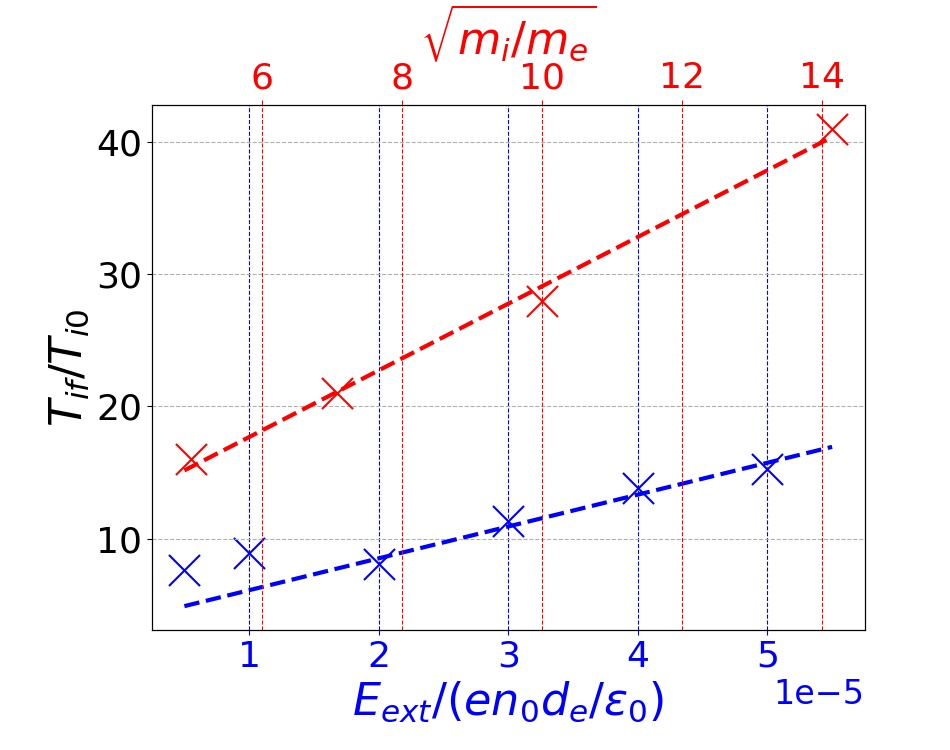
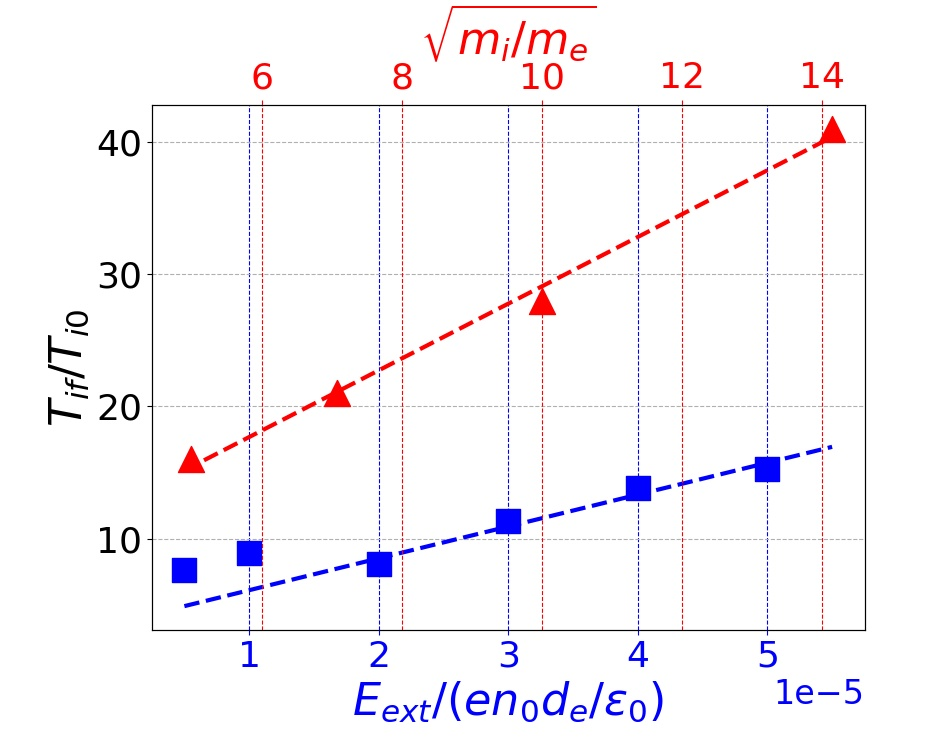
update

diff --git a/Diagnostics/local/dependence.py b/Diagnostics/local/dependence.py
@@ -519,8 +519,8 @@ def ionheating():
     popt2, pcov2 = curve_fit(linear_model, E_ext_, Ti_E_)
     constructed_2 = linear_model(Ee,*popt2)
 
-    ax2.scatter(mass_ratio, Ti_mass, marker='x',s = 500, color='red')
-    ax.scatter(E_ext, Ti_E, marker='x',s = 500, color='blue')
+    ax2.scatter(mass_ratio, Ti_mass, marker='^',s = 350, color='red')
+    ax.scatter(E_ext, Ti_E, marker='s',s = 300, color='blue')
     ax2.plot(mass, constructed_1, color='red', linestyle='--',linewidth=3)
     ax.plot(Ee, constructed_2, color='blue', linestyle='--',linewidth=3)
 
@@ -539,7 +539,7 @@ def ionheating():
     ax.grid(axis='y',linestyle='--')
     ax2.grid(color='red',linestyle='--')
 
-    plt.savefig('./Figures/figures_temp/dependence/Ti_dependence.jpeg')
+    plt.savefig('./Figures/paper_figures/dependence/Ti_dependence.jpeg')
     #plt.show()
 
 
@@ -703,13 +703,13 @@ if __name__ == '__main__':
 
     
     # nueff_massratio()
-    nueff_electricfield()
+    # nueff_electricfield()
 
     # tempratio_ratio()
 
     # ionheatingtrace()
 
-    # ionheating()
+    ionheating()
 
     # elcheatingtrace_mass()
     # elcheatingtrace_E()

diff --git a/Diagnostics/local/spectrum.py b/Diagnostics/local/spectrum.py
@@ -108,7 +108,9 @@ def k_main(Ez_k_list,Ey_k_list):
     ax.plot(k_plot_2,Ek_3500,label=r'$\omega_{pe}t=3500$',linewidth=3)
     ax.plot(k_plot_2,Ek_4300,label=r'$\omega_{pe}t=4300$',linewidth=3)
     # plt.plot(k_plot_2,Ek_2400,label=r'$\omega_{pe}t=2400$',linewidth=3)
-    ax.plot(k_list,0.004*N_k,linewidth=3,linestyle = '--',color='black')
+    
+    #ax.plot(k_list,0.004*N_k,linewidth=3,linestyle = '--',color='black')
+    ax.plot(k_list,0.0008*N_k,linewidth=3,linestyle = '--',color='black')
     #plt.plot(k_list,N_k*700,label='theory2',linewidth=3,linestyle = '--',color='black')
     #plt.plot(k_list,N_k*200,label='theory2')
     #plt.plot(kf,N_k_full*900,label='theory2')

diff --git a/Diagnostics/local/Linear_theory/nonlinear_evolve.py b/Diagnostics/local/Linear_theory/nonlinear_evolve.py
@@ -143,8 +143,8 @@ def mass25():
     axs[1,1].legend(fontsize=24)
 
     plt.tight_layout()
-    #plt.show()
-    plt.savefig('./mass25_nonlinear_test.pdf')
+    plt.show()
+    #plt.savefig('./mass25_nonlinear_test.pdf')
 
 if __name__ == '__main__':
     mass25()
